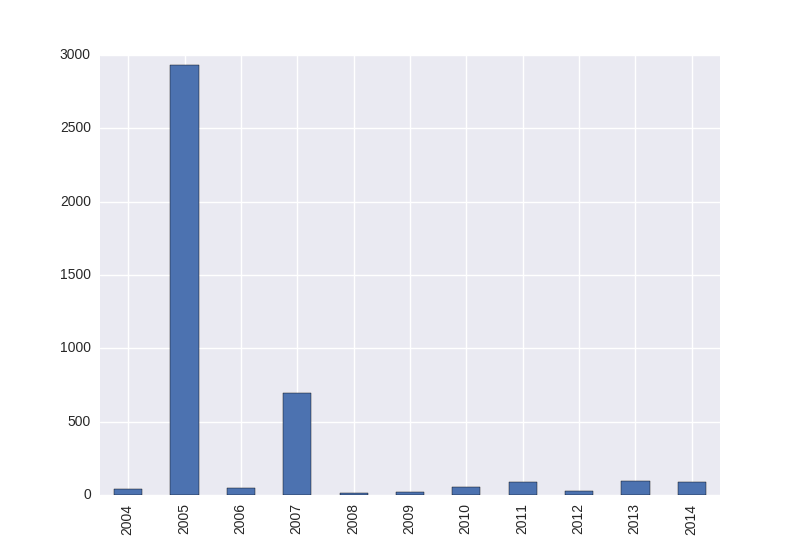
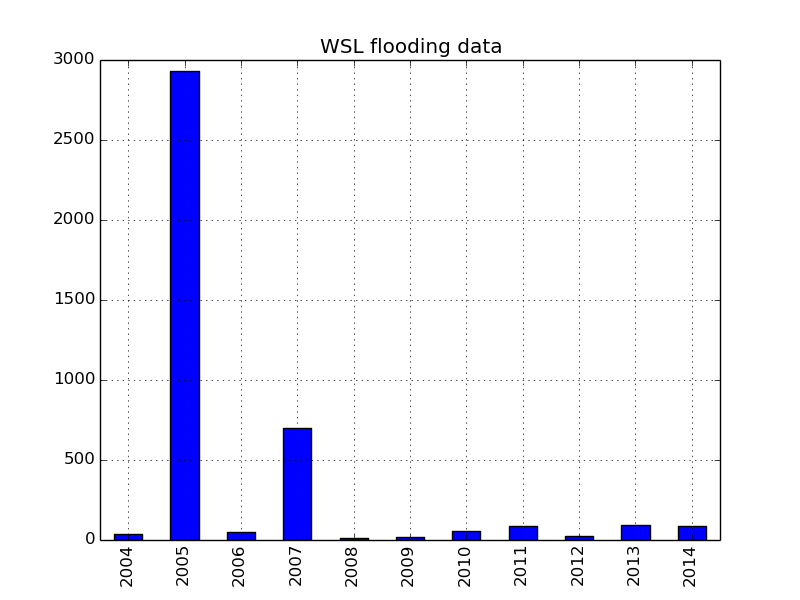
misc

diff --git a/docs/build/html/searchindex.js b/docs/build/html/searchindex.js
@@ -1,1 +1,1 @@
-Search.setIndex({envversion:46,filenames:["apis","codebase","config","flickr","flickr_analysis","geo","index","modules","results","secrets","store","test","twitter","twitter_analysis","utils"],objects:{"":{apis:[0,0,0,"-"],config:[2,0,0,"-"],flickr_analysis:[4,0,0,"-"],geo:[5,0,0,"-"],secrets:[9,0,0,"-"],store:[10,0,0,"-"],test:[11,0,0,"-"],twitter_analysis:[13,0,0,"-"],utils:[14,0,0,"-"]},"apis.flickr_api":{FlickrQuery:[0,2,1,""],PhotoCollection:[0,2,1,""],count_photos:[0,1,1,""],get_photo_collection:[0,1,1,""],get_points:[0,1,1,""],print_places:[0,1,1,""],retrieve_place_name:[0,1,1,""]},"apis.flickr_api.PhotoCollection":{count_photos:[0,3,1,""],get_random_link:[0,3,1,""],to_points:[0,3,1,""]},"apis.twitter_api":{PrintingListener:[0,2,1,""],StoringListener:[0,2,1,""],Tweet:[0,2,1,""],TwitterSearchQuery:[0,2,1,""],TwitterStreamListener:[0,2,1,""],TwitterStreamingQuery:[0,2,1,""],date_string_to_datetime:[0,1,1,""],download_search_tweets:[0,1,1,""],print_place_info:[0,1,1,""],print_places:[0,1,1,""],start_streaming:[0,1,1,""]},"apis.twitter_api.PrintingListener":{on_status:[0,3,1,""]},"apis.twitter_api.StoringListener":{on_connect:[0,3,1,""],on_status:[0,3,1,""]},"apis.twitter_api.TwitterStreamListener":{on_error:[0,3,1,""]},"geo.Map":{draw_densities:[5,3,1,""],draw_points:[5,3,1,""],save:[5,3,1,""],show:[5,3,1,""]},"test.twitter_analysis_test":{ContainsTopicTest:[11,2,1,""]},"test.twitter_analysis_test.ContainsTopicTest":{test_rain_false:[11,3,1,""],test_rain_true:[11,3,1,""]},"utils.Stopwatch":{start:[14,3,1,""]},apis:{Query:[0,2,1,""],facebook_api:[0,0,0,"-"],flickr_api:[0,0,0,"-"],instagram_api:[0,0,0,"-"],twitter_api:[0,0,0,"-"]},flickr_analysis:{compute_geotag_usage:[4,1,1,""],plot_normalized_tag_usage:[4,1,1,""],plot_photos_per_year:[4,1,1,""],plot_wsl_flooding_data:[4,1,1,""],save_map:[4,1,1,""]},geo:{BoundingBox:[5,2,1,""],Map:[5,2,1,""],MapResolution:[5,2,1,""],Point:[5,2,1,""]},store:{StoreType:[10,2,1,""],get_search_tweets:[10,1,1,""],read:[10,1,1,""],save:[10,1,1,""]},test:{twitter_analysis_test:[11,0,0,"-"]},twitter_analysis:{Topic:[13,2,1,""],contains_topic:[13,1,1,""],plot_rain_data:[13,1,1,""],print_search_tweet_counts:[13,1,1,""],topic_distribution:[13,1,1,""]},utils:{Stopwatch:[14,2,1,""],measure_download_time:[14,1,1,""],print_totals:[14,1,1,""]}},objnames:{"0":["py","module","Python module"],"1":["py","function","Python function"],"2":["py","class","Python class"],"3":["py","method","Python method"]},objtypes:{"0":"py:module","1":"py:function","2":"py:class","3":"py:method"},terms:{"0x7f202fc9f3d0":4,"0x7f202fc9f410":4,"0x7f202fc9f450":4,"0x7f6712ab7090":[],"0x7f6712ab7110":[],"0x7f6712ab7150":[],"0x7f75cf58f490":[],"0x7f75cf58f4d0":[],"0x7f75cf58f510":[],"0x7fa2232669d0":[],"0x7fa223266a10":[],"0x7fa223266a50":[],"_json":12,"abstract":0,"case":11,"class":[0,5,10,11,13,14],"enum":5,"function":0,"import":[],"new":3,"public":12,"return":3,about:3,accord:0,acquir:3,all:[1,12],alpha:3,analyse_tweet:[],analysi:1,api_kei:3,approxim:12,arrai:[],author:12,base:[0,1,5,10,11,13,14],begin:[10,13],begin_d:13,between:12,billion:3,bit:3,blue:5,bounding_box:[0,5],boundingbox:5,call:3,ccantei:12,charact:12,code:1,collect:[],color:4,color_map:[4,5],com:[3,12],complet:12,compute_geotag_usag:4,connect:12,contains_top:13,containstopictest:11,contributor:12,coordin:12,count:[],count_edg:3,count_photo:0,count_point:3,countri:3,creat:3,created_at:12,dai:12,daili:3,date:0,date_string_to_datetim:0,default_profile_imag:12,defin:0,dev:12,dictionari:[],directori:10,doc:3,download:0,download_search_tweet:0,draw_dens:5,draw_point:5,dublin_rain_tweet:[],each:12,earth:3,enabl:[0,12],end:[10,13],end_dat:13,endpoint:3,entiti:[3,12],facebook:[],fals:[0,4,10,13],favorite_count:12,filter:0,find_plac:[],flickr:[],flickr_data:[],flickr_plot:[],flickrapi:[1,3],flickrqueri:0,follow_request_s:12,format:[3,4,5],francisco:12,from:12,full_nam:12,geoloc:[],geosearch:12,geotag:12,germani:12,get:3,get_photo_collect:0,get_point:0,get_random_link:0,get_search_tweet:10,get_twitter_text:[],github:12,given:[0,3],has_donuthol:3,has_shapedata:3,hashtag:12,histogram:[],http:[3,12],identifi:3,imag:3,in_reply_to_status_id:12,inc:12,includ:12,index:12,induc:12,inform:3,instagram:[],instead:12,intermedi:5,is_donuthol:3,iter:0,januari:12,json:3,juli:12,languag:1,latitud:3,latitutd:3,latitutud:3,launch:12,librari:12,linearsegmentedcolormap:4,list:3,locat:12,longitud:3,ludicorp:3,map:5,map_resolut:5,mapresolut:5,matplotlib:[1,4],measure_download_tim:14,method:3,methodnam:11,milion:12,million:[3,12],misc:[],mix_point:4,moment:12,n_bin:[4,5],name:3,natur:1,nltk:1,none:[0,4,10,13],normalizer_queri:[],number:[],number_of_london_tweet:[],object:[0,3,4,5,10,13,14],old_stuff:[],on_connect:0,on_error:0,on_statu:0,only_geotag:0,over:0,page:3,panda:1,pandas_plot:[],param:[],paramet:3,path:5,per:12,per_pag:[0,14],perpag:3,photocollect:0,php:3,place:12,place_id:[0,3,10,13],place_info:[],place_typ:3,place_type_id:3,place_url:3,plot:1,plot_normalized_tag_usag:4,plot_photos_per_year:4,plot_rain_data:13,plot_statist:[],plot_wsl_flooding_data:4,png:[4,5],point:5,polylin:3,print_berlin_tweet_count:[],print_number_of_dublin_tweet:[],print_plac:0,print_place_info:0,print_random_link:[],print_search_tweet_count:13,print_tot:14,print_tweet:[],print_tweet_counts_last_dai:[],printinglisten:0,process:1,profil:12,profile_image_url_http:12,profile_sidebar_fill_color:12,profile_use_background_imag:12,python:[1,12],queri:[0,3,4,10,14],query_str:0,read:10,recent:12,registr:3,repres:3,respons:3,rest:[],result:[],retrieve_place_nam:0,rsp:3,run:12,runtest:11,san:12,sandbox:[],save2doc:4,save:[5,10],save_europa_map:[],save_into_doc:[],save_map:4,schema:12,seaborn:1,search:[],secret:[],servic:3,shaped:3,shapedata:3,shapefil:3,show:5,spatial:3,start:[0,14],start_stream:0,stat:3,statu:[0,12],status_cod:0,status_handl:0,stopwatch:14,store:[],store_typ:10,storetyp:10,storinglisten:0,stream:[0,12],stream_listen:0,streamlisten:0,string:3,structur:3,stuvel:3,tag:[0,4],tags_for_plac:[],term:13,test:[],test_rain_fals:11,test_rain_tru:11,testcas:11,text:12,through:12,timezon:3,titl:3,to_point:0,topic:13,topic_distribut:13,total:3,truncat:12,tweepi:[],tweet:[0,12,13],twitter:[],twitter_analysi:[],twitter_analysis_test:[],twitter_cursor:[],twitter_geo:[],twitter_respons:[],twitter_streaming_respons:[],twittersearchqueri:0,twitterstreamingqueri:0,twitterstreamlisten:0,uniqu:3,unittest:11,url:3,use_cach:[4,10,13],user:[3,12],util:[],verifi:12,version:12,walk:[],where:3,which:0,woe_id:[0,3,4],woe_nam:3,woeid:3,written:3,xml:3,yahoo:3,year:0},titles:["apis package","Codebase","config module","Flickr","flickr_analysis module","geo module","Social Media Mining For Wheater Data","Modules","Results","secrets module","store module","test package","Twitter","twitter_analysis module","utils module"],titleterms:{"import":1,api:[0,3,12],codebas:1,config:2,content:[0,11],data:6,document:[],facebook_api:0,find:3,flickr:3,flickr_analysi:4,flickr_api:0,geo:5,geoloc:12,getinfo:3,indic:[],instagram_api:0,librari:[1,3],media:6,mine:6,misc:12,modul:[0,2,4,5,7,9,10,11,13,14],old_stuff:[],packag:[0,11],photo:3,place:3,python:3,rest:12,result:8,sandbox:[],search:[3,12],secret:9,social:6,store:10,submodul:[0,11],tabl:[],test:11,tweepi:12,twitter:12,twitter_analysi:13,twitter_analysis_test:11,twitter_api:0,util:14,welcom:[],wheater:6,woe:3}})
+Search.setIndex({envversion:46,filenames:["apis","codebase","config","flickr","flickr_analysis","geo","index","modules","results","secrets","store","test","twitter","twitter_analysis","utils"],objects:{"":{apis:[0,0,0,"-"],config:[2,0,0,"-"],flickr_analysis:[4,0,0,"-"],geo:[5,0,0,"-"],secrets:[9,0,0,"-"],store:[10,0,0,"-"],test:[11,0,0,"-"],twitter_analysis:[13,0,0,"-"],utils:[14,0,0,"-"]},"apis.flickr_api":{FlickrQuery:[0,2,1,""],PhotoCollection:[0,2,1,""],count_photos:[0,1,1,""],get_photo_collection:[0,1,1,""],get_points:[0,1,1,""],print_places:[0,1,1,""],retrieve_place_name:[0,1,1,""]},"apis.flickr_api.PhotoCollection":{count_photos:[0,3,1,""],get_random_link:[0,3,1,""],to_points:[0,3,1,""]},"apis.twitter_api":{PrintingListener:[0,2,1,""],StoringListener:[0,2,1,""],Tweet:[0,2,1,""],TwitterSearchQuery:[0,2,1,""],TwitterStreamListener:[0,2,1,""],TwitterStreamingQuery:[0,2,1,""],date_string_to_datetime:[0,1,1,""],download_search_tweets:[0,1,1,""],print_place_info:[0,1,1,""],print_places:[0,1,1,""],start_streaming:[0,1,1,""]},"apis.twitter_api.PrintingListener":{on_status:[0,3,1,""]},"apis.twitter_api.StoringListener":{on_connect:[0,3,1,""],on_status:[0,3,1,""]},"apis.twitter_api.TwitterStreamListener":{on_error:[0,3,1,""]},"geo.Map":{draw_densities:[5,3,1,""],draw_points:[5,3,1,""],save:[5,3,1,""],show:[5,3,1,""]},"test.twitter_analysis_test":{ContainsTopicTest:[11,2,1,""]},"test.twitter_analysis_test.ContainsTopicTest":{test_rain_false:[11,3,1,""],test_rain_true:[11,3,1,""]},"utils.Stopwatch":{start:[14,3,1,""]},apis:{Query:[0,2,1,""],facebook_api:[0,0,0,"-"],flickr_api:[0,0,0,"-"],instagram_api:[0,0,0,"-"],twitter_api:[0,0,0,"-"]},flickr_analysis:{compute_geotag_usage:[4,1,1,""],plot_normalized_tag_usage:[4,1,1,""],plot_photos_per_year:[4,1,1,""],plot_wsl_flooding_data:[4,1,1,""],save_map:[4,1,1,""]},geo:{BoundingBox:[5,2,1,""],Map:[5,2,1,""],MapResolution:[5,2,1,""],Point:[5,2,1,""]},store:{StoreType:[10,2,1,""],get_search_tweets:[10,1,1,""],read:[10,1,1,""],save:[10,1,1,""]},test:{twitter_analysis_test:[11,0,0,"-"]},twitter_analysis:{Topic:[13,2,1,""],contains_topic:[13,1,1,""],plot_rain_data:[13,1,1,""],print_search_tweet_counts:[13,1,1,""],topic_distribution:[13,1,1,""]},utils:{Stopwatch:[14,2,1,""],measure_download_time:[14,1,1,""],print_totals:[14,1,1,""]}},objnames:{"0":["py","module","Python module"],"1":["py","function","Python function"],"2":["py","class","Python class"],"3":["py","method","Python method"]},objtypes:{"0":"py:module","1":"py:function","2":"py:class","3":"py:method"},terms:{"0x7f202fc9f3d0":[],"0x7f202fc9f410":[],"0x7f202fc9f450":[],"0x7f208f72c810":4,"0x7f208f72c850":4,"0x7f208f72c890":4,"0x7f6712ab7090":[],"0x7f6712ab7110":[],"0x7f6712ab7150":[],"0x7f75cf58f490":[],"0x7f75cf58f4d0":[],"0x7f75cf58f510":[],"0x7fa2232669d0":[],"0x7fa223266a10":[],"0x7fa223266a50":[],"_json":12,"abstract":0,"case":11,"class":[0,5,10,11,13,14],"enum":5,"function":0,"import":[],"new":3,"public":12,"return":3,about:3,accord:0,acquir:3,all:[1,12],alpha:3,analyse_tweet:[],analysi:1,api_kei:3,approxim:12,arrai:[],author:12,base:[0,1,5,10,11,13,14],begin:[10,13],begin_d:13,between:12,billion:3,bit:3,blue:5,bounding_box:[0,5],boundingbox:5,call:3,ccantei:12,charact:12,code:1,collect:[],color:4,color_map:[4,5],com:[3,12],complet:12,compute_geotag_usag:4,connect:12,contains_top:13,containstopictest:11,contributor:12,coordin:12,count:[],count_edg:3,count_photo:0,count_point:3,countri:3,creat:3,created_at:12,dai:12,daili:3,date:0,date_string_to_datetim:0,default_profile_imag:12,defin:0,dev:12,dictionari:[],directori:10,doc:3,download:0,download_search_tweet:0,draw_dens:5,draw_point:5,dublin_rain_tweet:[],each:12,earth:3,enabl:[0,12],end:[10,13],end_dat:13,endpoint:3,entiti:[3,12],facebook:[],fals:[0,4,10,13],favorite_count:12,filter:0,find_plac:[],flickr:[],flickr_data:[],flickr_plot:[],flickrapi:[1,3],flickrqueri:0,follow_request_s:12,format:[3,4,5],francisco:12,from:12,full_nam:12,geoloc:[],geosearch:12,geotag:12,germani:12,get:3,get_photo_collect:0,get_point:0,get_random_link:0,get_search_tweet:10,get_twitter_text:[],github:12,given:[0,3],has_donuthol:3,has_shapedata:3,hashtag:12,histogram:[],http:[3,12],identifi:3,imag:3,in_reply_to_status_id:12,inc:12,includ:12,index:12,induc:12,inform:3,instagram:[],instead:12,intermedi:5,is_donuthol:3,iter:0,januari:12,json:3,juli:12,languag:1,latitud:3,latitutd:3,latitutud:3,launch:12,librari:12,linearsegmentedcolormap:4,list:3,locat:12,longitud:3,ludicorp:3,map:5,map_resolut:5,mapresolut:5,matplotlib:[1,4],measure_download_tim:14,method:3,methodnam:11,milion:12,million:[3,12],misc:[],mix_point:4,moment:12,n_bin:[4,5],name:3,natur:1,nltk:1,none:[0,4,10,13],normalizer_queri:[],number:[],number_of_london_tweet:[],object:[0,3,4,5,10,13,14],old_stuff:[],on_connect:0,on_error:0,on_statu:0,only_geotag:0,over:0,page:3,panda:1,pandas_plot:[],param:[],paramet:3,path:5,per:12,per_pag:[0,14],perpag:3,photocollect:0,php:3,place:12,place_id:[0,3,10,13],place_info:[],place_typ:3,place_type_id:3,place_url:3,plot:1,plot_normalized_tag_usag:4,plot_photos_per_year:4,plot_rain_data:13,plot_statist:[],plot_wsl_flooding_data:4,png:[4,5],point:5,polylin:3,print_berlin_tweet_count:[],print_number_of_dublin_tweet:[],print_plac:0,print_place_info:0,print_random_link:[],print_search_tweet_count:13,print_tot:14,print_tweet:[],print_tweet_counts_last_dai:[],printinglisten:0,process:1,profil:12,profile_image_url_http:12,profile_sidebar_fill_color:12,profile_use_background_imag:12,python:[1,12],queri:[0,3,4,10,14],query_str:0,read:10,recent:12,registr:3,repres:3,respons:3,rest:[],result:[],retrieve_place_nam:0,rsp:3,run:12,runtest:11,san:12,sandbox:[],save2doc:4,save:[5,10],save_europa_map:[],save_into_doc:[],save_map:4,schema:12,seaborn:1,search:[],secret:[],servic:3,shaped:3,shapedata:3,shapefil:3,show:5,spatial:3,start:[0,14],start_stream:0,stat:3,statu:[0,12],status_cod:0,status_handl:0,stopwatch:14,store:[],store_typ:10,storetyp:10,storinglisten:0,stream:[0,12],stream_listen:0,streamlisten:0,string:3,structur:3,stuvel:3,tag:[0,4],tags_for_plac:[],term:13,test:[],test_rain_fals:11,test_rain_tru:11,testcas:11,text:12,through:12,timezon:3,titl:3,to_point:0,topic:13,topic_distribut:13,total:3,truncat:12,tweepi:[],tweet:[0,12,13],twitter:[],twitter_analysi:[],twitter_analysis_test:[],twitter_cursor:[],twitter_geo:[],twitter_respons:[],twitter_streaming_respons:[],twittersearchqueri:0,twitterstreamingqueri:0,twitterstreamlisten:0,uniqu:3,unittest:11,url:3,use_cach:[4,10,13],user:[3,12],util:[],verifi:12,version:12,walk:[],where:3,which:0,woe_id:[0,3,4],woe_nam:3,woeid:3,written:3,xml:3,yahoo:3,year:0},titles:["apis package","Codebase","config module","Flickr","flickr_analysis module","geo module","Social Media Mining For Wheater Data","Modules","Results","secrets module","store module","test package","Twitter","twitter_analysis module","utils module"],titleterms:{"import":1,api:[0,3,12],codebas:1,config:2,content:[0,11],data:6,document:[],facebook_api:0,find:3,flickr:3,flickr_analysi:4,flickr_api:0,geo:5,geoloc:12,getinfo:3,indic:[],instagram_api:0,librari:[1,3],media:6,mine:6,misc:12,modul:[0,2,4,5,7,9,10,11,13,14],old_stuff:[],packag:[0,11],photo:3,place:3,python:3,rest:12,result:8,sandbox:[],search:[3,12],secret:9,social:6,store:10,submodul:[0,11],tabl:[],test:11,tweepi:12,twitter:12,twitter_analysi:13,twitter_analysis_test:11,twitter_api:0,util:14,welcom:[],wheater:6,woe:3}})

diff --git a/docs/build/html/flickr_analysis.html b/docs/build/html/flickr_analysis.html
@@ -63,7 +63,7 @@
 
 <dl class="function">
 <dt id="flickr_analysis.save_map">
-<code class="descclassname">flickr_analysis.</code><code class="descname">save_map</code><span class="sig-paren">(</span><em>queries, use_cache=False, n_bins=60, color_maps=[&lt;matplotlib.colors.LinearSegmentedColormap object at 0x7f202fc9f3d0&gt;, &lt;matplotlib.colors.LinearSegmentedColormap object at 0x7f202fc9f410&gt;, &lt;matplotlib.colors.LinearSegmentedColormap object at 0x7f202fc9f450&gt;], mix_points=False, formats=['png']</em><span class="sig-paren">)</span><a class="headerlink" href="#flickr_analysis.save_map" title="Permalink to this definition">¶</a></dt>
+<code class="descclassname">flickr_analysis.</code><code class="descname">save_map</code><span class="sig-paren">(</span><em>queries, use_cache=False, n_bins=60, color_maps=[&lt;matplotlib.colors.LinearSegmentedColormap object at 0x7f208f72c810&gt;, &lt;matplotlib.colors.LinearSegmentedColormap object at 0x7f208f72c850&gt;, &lt;matplotlib.colors.LinearSegmentedColormap object at 0x7f208f72c890&gt;], mix_points=False, formats=['png']</em><span class="sig-paren">)</span><a class="headerlink" href="#flickr_analysis.save_map" title="Permalink to this definition">¶</a></dt>
 <dd></dd></dl>
 
 </div>

diff --git a/flickr_analysis.py b/flickr_analysis.py
@@ -103,11 +103,13 @@ def plot_normalized_tag_usage(tags=None, woe_id=None, save2docs=False):
         plt.savefig(path)
 
 
-
 def plot_wsl_flooding_data():
     series = pd.Series.from_csv('data/switzerland_flooding_money.csv', ';')
     series.index = series.index.map(lambda t: t.strftime('%Y'))
     series[str(PLOT_START_YEAR):str(PLOT_END_YEAR)].plot(kind='bar')
+
+    plt.title('WSL flooding data')
+
     path = join(DOCS_IMG_PATH, 'wsl')
     plt.savefig(path)
 
@@ -149,7 +151,7 @@ def save_map(queries, use_cache=False, n_bins=60, color_maps=config.COLOR_MAPS, 
 if __name__ == '__main__':
     logger.setLevel(logging.INFO)
     logger.addHandler(logging.StreamHandler())
-    compute_geotag_usage()
+    plot_wsl_flooding_data()
 
 
 
